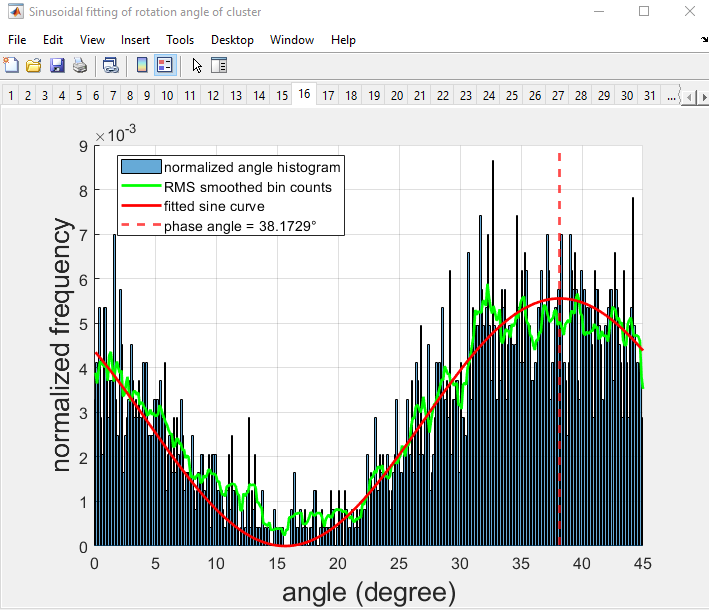
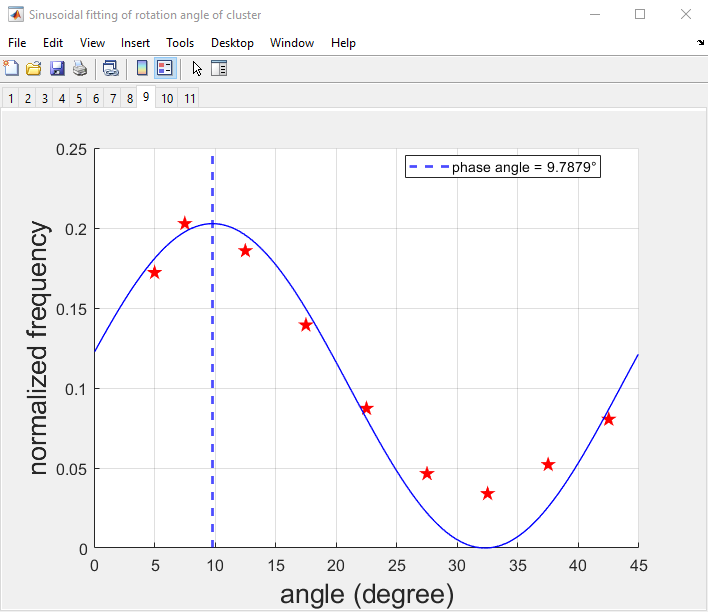
2024.10.22 commit
updated script "rotate_cluster.m"
updated related figure
updated demo code

diff --git a/code/rotate_cluster.m b/code/rotate_cluster.m
@@ -1,14 +1,20 @@
-function rotate_cluster (cluster_data, showFitting, save_mode)
+function rotate_cluster (cluster_data, angel_bin_size, angle_to_base, showFitting, save_mode)
     
-    if nargin < 3
+    if nargin < 5
         save_mode = 'overwrite';
     end
-    if nargin < 2
+    if nargin < 4
         showFitting = false;
     end
+    if nargin < 3
+        angle_to_base = 0;
+    end
+    if nargin < 2
+        angel_bin_size = 5;     % default phase angle bin size is 5 degree
+    end
+
     
     global fig tg; %#ok<GVMIS>
-
     num_cluster = length(cluster_data);
 
     progress = 0;
@@ -33,35 +39,40 @@ function rotate_cluster (cluster_data, showFitting, save_mode)
         % STEP 1
         % compute rotation angle in XY plane in the range between
         % [-180°, 180°] of each localization
-        rot = atan2d(xnorm, ynorm);
-    
+        rot = atan2d(ynorm, xnorm);
+        
         % STEP 2
-        % mapping rotation angle to the range of [0°, 45°] to account for
-        % 8-fold symmetry of the NPC sub-unit
+        % mapping rotation angle to the range of [0°, 45°] to account for 8-fold symmetry of the NPC sub-unit
         rot_45 = mod(rot, 45);
         
         % STEP 3 - modified as of 2024.09.17
         % fit a full cycle of sinusoidal to the histogram of the 45° angle
         % mapping histogram, to estimate the final rotation angle in XY plane
-        rot_angle_360 = rot_45 * 8;   % re-scale back to 0 - 360° for full cycle sinusoidal fit !!! not to be confused with the original rotation angle !!!
-        edges = 0 : 1 : 360;                % use 1 degree precision
-        binCount_360 = histcounts(rot_angle_360, edges, 'Normalization','probability');
+        % re-scale back to 0 - 360° for full cycle sinusoidal fit. Not to be confused with the original rotation angle.
+        rot_360 = rot_45 * 8;
+        % phase angle histogram bin size
+        edges = 0 : angel_bin_size*8 : 360;
+        binCounts = histcounts(rot_360, edges, 'Normalization','probability'); % bin count size is length(angleRes) - 1
+        binCenters = movmean(edges(2:end), 2);
+       
         % smooth the histogram with RMS filter, window size = 9 bins
-        binCount_RMS = sqrt(movmean(binCount_360 .^ 2, 9));
-
-        [~, maxIndex] = max(binCount_RMS);
-        % Define x scale to cover [0, 360] degrees for a complete cycle
-        XdataDegree = 1 : 1 : 360;
-        % Define the sine function model
-        sineModel = @(sineFunc, x) 1/360 * sind( x + sineFunc(1)) + 1 / 360;
-        % Perform the fitting using nonlinear least squares
+        %windowSize = round( angleScaleFactor );
+        %binCount_RMS = sqrt(movmean(binCount_rescale .^ 2, windowSize));
+        
+        % locate the max bin count, as the phase angle of majority of localization, as our initial guess for the sine fit
+        [maxCount, maxIndex] = max(binCounts);
+        intialAngleGuess = binCenters(maxIndex);
+        % define the sine function model
+        %sineModel = @(p, x) (1/360) * cosd( (x - p) ) + (1/360);
+        Amplitude = maxCount / 2;
+        sineModel = @(p, x) Amplitude * cosd( (x - p) ) + Amplitude;
+        % perform the fitting using nonlinear least squares
         options = optimset('Display','off');
-        sineParams = lsqcurvefit(sineModel, maxIndex - 90, edges(2:end), binCount_RMS, [], [], options);
-    
-        % extract phase shift degree from fitted sine function
-        phaseShiftDegrees = mod( 90 - sineParams(1), 360 ) / 8;
-
-
+        sineParams = lsqcurvefit(sineModel, intialAngleGuess, binCenters, binCounts, [], [], options);
+        
+        % map phase angle back to [0, 45] degree from fitted sine function
+        phaseShiftDegrees = sineParams(1) / 8;
+        
         if (showFitting)
             if ~ishandle(903)
                 fig = figure(903);
@@ -74,22 +85,25 @@ function rotate_cluster (cluster_data, showFitting, save_mode)
             tab = uitab(tg, 'title', ""+i);
             ax = axes('Parent', tab);
             hold on;
-            histogram(rot_45, edges/8, 'Normalization', 'probability');
-            plot(XdataDegree/8, binCount_RMS, 'g', 'LineWidth', 2);
+            %histogram(rot_360, edges, 'Normalization', 'probability');
+            %plot(XdataDegree, binCount_RMS, 'g', 'LineWidth', 2);
+            plot(binCenters/8, binCounts, 'rpentagram', 'LineStyle', 'none', 'MarkerFaceColor', 'r', 'MarkerSize', 10, 'HandleVisibility','off');
             % Overlay the fitted sine function
+            XdataDegree = 0.5 : 1 : 359.5; % use 1 degree resolution for a complete sine wave plot
             fittedCurve = sineModel(sineParams, XdataDegree);
-            plot(XdataDegree/8, fittedCurve, 'r-', 'LineWidth', 2);
-            xline(phaseShiftDegrees, '--r', 'LineWidth', 2);
+            plot(XdataDegree/8, fittedCurve, 'b-', 'LineWidth', 1, 'HandleVisibility','off');
+            xline(phaseShiftDegrees, '--b', 'LineWidth', 2);
             %title('Histogram with Fitted Sine Function');
-            legend('normalized angle histogram', 'RMS smoothed bin counts', 'fitted sine curve', strcat("phase angle = ", num2str(phaseShiftDegrees), "°"), 'Location', 'Best');
+            %legend('normalized angle histogram', 'RMS smoothed bin counts', 'fitted sine curve', strcat("phase angle = ", num2str(phaseShiftDegrees*8), "°"), 'Location', 'Best');
+            legend(strcat("phase angle = ", num2str(phaseShiftDegrees), "°"), 'Location', 'Best');
             grid on;
-            xlim([0, 45]);
+            xlim([0, 45]); xticks(0:5:45);
             set(ax,'FontSize', 12)
-            xlabel('angle (degree)','FontSize',20);
-            ylabel('normalized frequency','FontSize',20);
+            xlabel('angle (degree)', 'FontSize', 20);
+            ylabel('normalized frequency', 'FontSize', 20);
         end
         
-        cluster_data(i).rotation = 45 - phaseShiftDegrees;
+        cluster_data(i).rotation = mod( phaseShiftDegrees + angle_to_base, 45) ;
 
     end
     fprintf('\n'); % To go to a new line after reaching 100% progress

diff --git a/code/merge_cluster.m b/code/merge_cluster.m
@@ -22,7 +22,7 @@ function merge_cluster (cluster_data, showResult, save_mode)
         % translate origin to the center of this cluster
         loc_norm = loc_nm - cluster.center;
         % rotate around the center by the angle(+22.5°) computed from previous sinusoidal fitting steps
-        rot_rad = deg2rad( cluster.rotation + 22.5 );
+        rot_rad = deg2rad( cluster.rotation );
         rotation_matrix = [ cos(rot_rad), -sin(rot_rad) ;
                             sin(rot_rad),  cos(rot_rad) ];
         
@@ -66,17 +66,27 @@ function merge_cluster (cluster_data, showResult, save_mode)
 
         img_xy = imgaussfilt(densityMap_xy, 5);
         img_xz = imgaussfilt(densityMap_xz, 5);
-        max_xy = max(max(img_xy));
-        max_xz = max(max(img_xz));
+        
+        img_size = max([size(img_xy), size(img_xz)]);
+        pad_x = ceil( (img_size - size(img_xy, 1)) / 2 );
+        pad_y = ceil( (img_size - size(img_xy, 2)) / 2 );
+        pad_z = ceil( (img_size - size(img_xz, 2)) / 2 );
+        img_xy = padarray(img_xy, [pad_x, pad_y]);
+        img_xz = padarray(img_xz, [pad_x, pad_z]);
 
+        max_xy = mean(img_xy(:)) + 3*std(img_xy(:), 1);
+        max_xy = max( max_xy, max(img_xy(:)) );
+        max_xz = mean(img_xz(:)) + 3*std(img_xz(:), 1);
+        max_xz = max( max_xz, max(img_xz(:)) );
+        
         ax1 = subplot(1,2,1, 'Parent', fig);
-        imshow(img_xy, 'Parent', ax1);
+        imshow(flipud(img_xy'), 'Parent', ax1, 'InitialMagnification', 100);
         colormap(ax1, 'hot');
         clim(ax1, [0, max_xy]);
         title("X-Y view");
 
         ax2 = subplot(1,2,2, 'Parent', fig);
-        imshow(flipud(img_xz'), 'Parent', ax2);
+        imshow(flipud(img_xz'), 'Parent', ax2, 'InitialMagnification', 100);
         colormap(ax2, 'hot');
         clim(ax2, [0, max_xz]);
         title("X-Z view");

diff --git a/demo.m b/demo.m
@@ -117,7 +117,7 @@ end
 
 %% compute 0-45 degree cluster rotation histogram, and align the clusters to same angle
 disp( "  - computing rotation phase angle of each cluster..." );
-rotate_cluster (cluster_data, true, save_mode)
+rotate_cluster (cluster_data, 5, 22.5, true, save_mode)
 if (saveResultofEachStep)
     cluster_data = cluster_data_rotated;
 end

diff --git a/code/renderNPC2D.m b/code/renderNPC2D.m
@@ -3,7 +3,7 @@ function densityMap = renderNPC2D (xy)
     x = xy(:,1);
     y = xy(:,2);
     pixelSize = 1;  % default pixel size: 1nm
-    marginRatio = 5;    % default margin ratio 5%
+    marginRatio = 10;    % default margin ratio 10%
 
 
 
